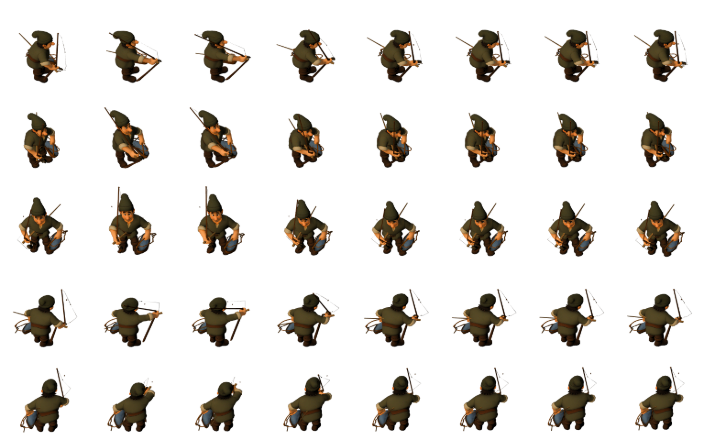
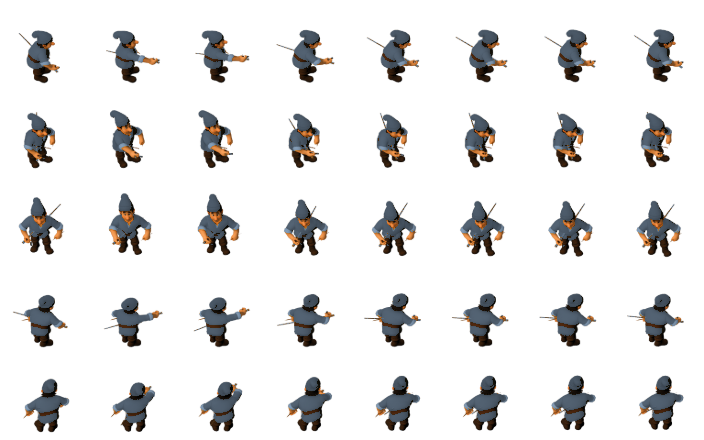
v237 Teil 1: Fischer von seiner Geister-Angel befreit
Das fisher-Mesh enthielt eine komplette EIGENE Angel, wie beim Jaeger
ueber Hand- UND Fussknochen verschmiert, in drei Teilen: Rute rechts
(samt dem "Punkt neben dem Kopf" - Head-Fragmente bei x -0,28),
Schnurbuendel links an der Huefte (riss im Gehen zu Drahtschlaufen
hinterm Ruecken auf) und Schnur-Enden. 358 Insel-IDs entfernt -
gefunden per Regel-Scan (Hand+Zehen-Mischgewichte), Isolationsproben
und abschliessender Streupixel-Bisektion bis auf Metrik 0. Haende,
Stiefel und Zehen-Miniinseln blieben nachgeprueft unversehrt.

Blaetter neu gebacken (Saettigung+Kontrast im Bake), Tunika danach
wieder taubenblau. Der Fisch-Korb an der Huefte war Teil desselben
fehlgeskinnten Buendels und ist mit entfernt - die Fischer-Identitaet
tragen Silhouette, Taubenblau, Brustgurt und die Wurf-Rute.

kd5 gruen. (sw-Bump folgt mit dem Gebirgs-Teil von T17.)

Claude-Session: https://claude.ai/code/session_01NJiXwFpbq91ri9gPbhzERB

diff --git a/tools/posen.js b/tools/posen.js
@@ -638,7 +638,24 @@ export const POSEN = {
   // nach vorn-unten in den Boden.
   leveler:    { atk: SCHAUFELN,  werkzeug: IN_FAUST('shovel',1.4,[-90,0,0]),
                 entfernen:[372,238,406,448,231,99,111,464,465,94,105,390,310,1759,29,289,256,410,2,86,389,239,178,270,386,1711,138,309,400,363,375,557,621,72,411,443,398,408,474,23,224,261,419,342,325,355,444,762,39,169,68,208,104,120,121,110,198,125,287,299,332,356,379,361,403,404,385,402,450,451,579] },
-  fisher:  { koerper: DICK, atk: ANGELN, werkzeug: IN_FAUST('rod',1.25) },
+  // fisher: das Mesh enthaelt eine EIGENE Angel-Ausruestung, wie beim
+  // Jaeger quer ueber Hand- UND Fussknochen verschmiert - sie zerriss in
+  // jeder Pose zu Strichen neben Kopf, Ruecken und Beinen. Drei Teile
+  // (T19, Regel-Scan fischscan/fischprobe + Isolationsproben):
+  //   1. Rute rechts (x=-0.28-Band, Boden bis y 0.98): R_Hand+R_ToeBase-
+  //      Mix, Schnur/Spitze rein R_UpperarmTwist01, ein Fragment
+  //      schwebte als "Punkt" neben dem Kopf (Head+R_UpperarmTwist01),
+  //   2. Schnurbuendel links an der Huefte (lange flache Strips dz~0.35,
+  //      unmoeglicher L_Hand+L_Bein-Mix): riss im Gehen zu Drahtschlaufen
+  //      hinterm Ruecken auf,
+  //   3. Schnur-Enden/Haken (L_Hand-dominant, z ueber +-0.16 hinaus).
+  // Erkennungsregel: Hand+Zehen-Mischgewichte bzw. Einzelknochen-Strips
+  // weit ausserhalb der Silhouette - echte Haende (L: 2108/1495/2423,
+  // R: 5363/403/821), Stiefel und Zehen-Miniinseln bleiben unberuehrt
+  // (verifiziert: Isolat = exakt die Angel, Restfigur vollstaendig).
+  // Die prozedurale 'rod' an der Faust uebernimmt.
+  fisher:  { koerper: DICK, atk: ANGELN, werkzeug: IN_FAUST('rod',1.25),
+             entfernen:[1978,3663,4085,3826,2943,2739,4166,2946,3498,3840,120,4127,3704,3805,3827,4100,4053,4169,4624,4614,4766,3405,3643,3817,3732,3818,3825,3801,3917,4130,4060,4196,4325,4416,1335,3819,3891,4434,4577,4414,4578,4625,4719,1830,1519,4083,4165,3260,3568,4139,3496,3560,3726,3660,3727,3832,3796,3778,3908,3894,3939,3941,3896,4152,4019,4067,4059,4072,4087,4093,4133,4172,4134,4161,4158,4199,4171,4217,4501,4327,4415,4472,4579,4503,4505,4527,4649,4605,4720,4615,4616,4683,1449,4102,4185,3376,3500,3645,3719,3612,3738,3838,3812,3887,3888,3936,3897,3895,3892,3931,3861,3862,3934,3890,3964,3893,3928,3981,3940,3943,3933,3935,3946,4005,4145,4020,3989,3990,4075,4151,4144,4028,4094,4178,4150,4435,4245,4163,4160,4247,4220,4232,4233,4235,4288,4440,4442,4328,4378,4363,4366,4525,4417,4502,4528,4537,4475,4546,4477,4478,4479,4617,4663,4664,4679,4513,4545,4691,4548,4589,4694,4596,4653,4600,4558,4654,4658,4604,4594,4595,4657,4660,4665,4723,4724,4633,4635,4684,4662,4682,4701,4738,7164,7123,4637,7159,4737,6843,6749,6765,6746,6768,6552,6854,5186,6444,6913,3723,3970,6503,2482,2484,4730,6980,1116,4347,6381,6859,6963,4303,7175,6943,6322,6747,3906,2887,6750,6869,6931,6898,6936,6892,6995,5105,2485,3693,3767,3953,3700,1014,4061,4230,4227,5492,6576,7106,7084,107,1018,109,5069,1918,2487,1916,2489,3701,4305,4251,4275,4301,4639,6171,6173,7162,7177,7115,3460,4206,4404,4298,4308,4361,4467,6985,7094,2880,4314,4292,4354,4575,6966,7112,4190,4223,4290,4456,4372,4572,4447,7051,7064,4032,4261,4271,4340,4457,4454,4496,4498,4573,4397,4398,4445,7010,7119,7110,7093,7113,162,7073,7108,6748,7041,7092,6896,531,1705,732,5070,6808,6810,6965,6921,6981,5695,5106,6784,6785,6835,6935,7002,7042,6938,6982,6971,6941,6961,6970,6987,7013,6984,7067,6989,7007,7097,7021,7098,7191,7202,7189,7212,6903,4359,4565,6901,1982,1834,1334] },
   // Soldaten (T16): sword/spear tragen jetzt PROZEDURALE Faust-Waffen -
   // die Mesh-Waffen (nur Oberarm-geskinnt, "Golfschlag"-Grenze) fliegen
   // per 'entfernen' raus. Der Schild bleibt im Mesh. Insel-IDs verifiziert
